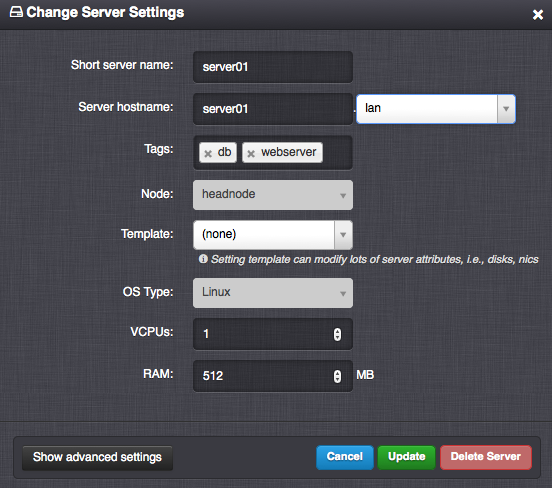
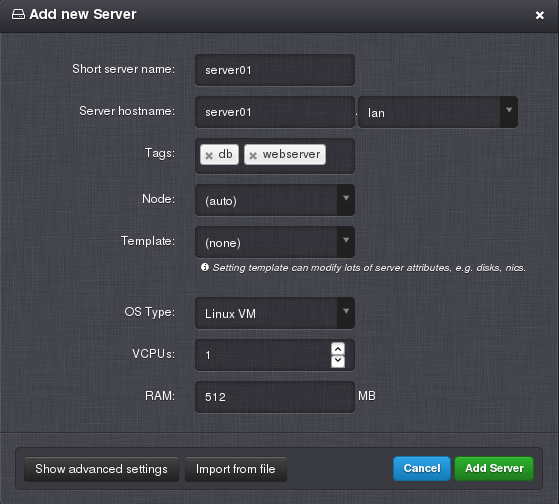
Added VM to ostypes to indicate KVM virtual machines
* Added VM to ostypes to indicate KVM virtual machines - erigones/esdc-ce#1
* Updated possible values of ostype_text

Closes erigones/esdc-ce#1

diff --git a/user-guide/monitoring/vm_monitoring.rst b/user-guide/monitoring/vm_monitoring.rst
@@ -32,8 +32,8 @@ Dynamic Assignment of Monitoring Templates and Host Groups
 
 * **MON_ZABBIX_HOSTGROUPS_VM** - List of other existing Zabbix host groups, which will be used for all monitored servers in a virtual data center. Available placeholders are:
 
-    * ``{ostype}`` - ID type of the operating system (1 - *Linux*, 2 - *SunOS*, 3 - *BSD*, 4 - *Windows*, 5 - *SunOS Zone*).
-    * ``{ostype_text}`` - The type of the operating system with lowercase letters and spaces replaced with underscores (*linux*, *sunos*, *bsd*, *windows*, *sunos_zone*).
+    * ``{ostype}`` - ID type of the operating system (1 - *Linux VM*, 2 - *SunOS VM*, 3 - *BSD VM*, 4 - *Windows VM*, 5 - *SunOS Zone*).
+    * ``{ostype_text}`` - The type of the operating system with lowercase letters and spaces replaced with underscores (*linux_vm*, *sunos_vm*, *bsd_vm*, *windows_vm*, *sunos_zone*).
     * ``{disk_image}`` - The name of the disk image or an empty string.
     * ``{disk_image_abbr}`` - The name of the disk image, which is automatically changed in a way that version is removed (everything after the first comma, including comma) or an empty string.
     * ``{dc_name}`` - The name of a virtual data center to which virtual server belongs.
@@ -42,8 +42,8 @@ Dynamic Assignment of Monitoring Templates and Host Groups
 
 * **MON_ZABBIX_TEMPLATES_VM** - List of existing Zabbix templates, which will be used for all monitored servers in a virtual data center. Available placeholders are:
 
-    * ``{ostype}`` - ID type of the operating system (1 - *Linux*, 2 - *SunOS*, 3 - *BSD*, 4 - *Windows*, 5 - *SunOS Zone*).
-    * ``{ostype_text}`` - The type of the operating system with lowercase letters and spaces replaced with underscores (*linux*, *sunos*, *bsd*, *windows*, *sunos_zone*).
+    * ``{ostype}`` - ID type of the operating system (1 - *Linux VM*, 2 - *SunOS VM*, 3 - *BSD VM*, 4 - *Windows VM*, 5 - *SunOS Zone*).
+    * ``{ostype_text}`` - The type of the operating system with lowercase letters and spaces replaced with underscores (*linux_vm*, *sunos_vm*, *bsd_vm*, *windows_vm*, *sunos_zone*).
     * ``{disk_image}`` - The name of the disk image or an empty string.
     * ``{disk_image_abbr}`` - The name of the disk image, which is automatically changed in a way that version is removed (everything after first comma, including comma) or an empty string.
     * ``{dc_name}`` - The name of a virtual data center to which virtual server belongs.

diff --git a/user-guide/gui/datacenters/settings.rst b/user-guide/gui/datacenters/settings.rst
@@ -120,7 +120,7 @@ Virtual Server Settings
 .. image:: img/settings_server-2.png
 
 * **VMS_ZONE_ENABLED** - Whether to enable support for SunOS zones in this virtual data center.
-* **VMS_VM_OSTYPE_DEFAULT** - Default operating system type. One of: *Linux*, *Windows*, *BSD*, *SunOS*, *SunOS Zone*.
+* **VMS_VM_OSTYPE_DEFAULT** - Default operating system type. One of: *Linux VM*, *Windows VM*, *BSD VM*, *SunOS VM*, *SunOS Zone*.
 * **VMS_VM_MONITORED_DEFAULT** - Controls whether server synchronization with the monitoring system is enabled by default.
 * **VMS_VM_CPU_SHARES_DEFAULT** - Default value of the server's CPU shares, relative to other servers. A higher value indicates a higher priority for allocation of CPU time. The default value for all virtual servers is 100.
 * **VMS_VM_ZFS_IO_PRIORITY_DEFAULT** - Default value of the server's IO throttling priority, relative to other servers. A higher value indicates a higher priority for allocation of IO resources. The default value for all virtual servers is 100.

diff --git a/user-guide/gui/servers/details.rst b/user-guide/gui/servers/details.rst
@@ -28,10 +28,10 @@ Virtual Server Parameters
 * **Template** - Template. 
 * **OS Type** - Operating system type. One of:
 
-    * *Linux*
-    * *Windows*
-    * *BSD*
-    * *SunOS*
+    * *Linux VM*
+    * *Windows VM*
+    * *BSD VM*
+    * *SunOS VM*
     * *SunOS Zone*
 * **vCPUs** - Number of virtual CPUs assigned to the virtual server.
 * **RAM** - The amount of RAM (MB) assigned to the virtual server.

diff --git a/user-guide/gui/datacenters/images.rst b/user-guide/gui/datacenters/images.rst
@@ -38,10 +38,10 @@ Image Parameters
 * **Size** - Minimal virtual disk size required by a disk image (read-only).
 * **OS Type** - Operating system type (read-only). One of:
 
-    * *Linux*
-    * *Windows*
-    * *BSD*
-    * *SunOS*
+    * *Linux VM*
+    * *Windows VM*
+    * *BSD VM*
+    * *SunOS VM*
     * *SunOS Zone*
 * **Status** - Current state of a disk image (read-only). One of:
 

diff --git a/user-guide/gui/nodes/images.rst b/user-guide/gui/nodes/images.rst
@@ -26,10 +26,10 @@ Image Parameters
 * **Size** - Minimal virtual disk size required by a disk image (read-only).
 * **OS Type** - Operating system type (read-only). One of:
 
-    * *Linux*
-    * *Windows*
-    * *BSD*
-    * *SunOS*
+    * *Linux VM*
+    * *Windows VM*
+    * *BSD VM*
+    * *SunOS VM*
     * *SunOS Zone*
 * **Status** - Current state of a disk image (read-only). One of:
 

diff --git a/user-guide/gui/datacenters/templates.rst b/user-guide/gui/datacenters/templates.rst
@@ -33,10 +33,10 @@ Template Parameters
 * **DC-bound?** - Whether a server template is bound to a specific virtual data center.
 * **OS Type** - Operating system type. One of:
 
-    * *Linux*
-    * *Windows*
-    * *BSD*
-    * *SunOS*
+    * *Linux VM*
+    * *Windows VM*
+    * *BSD VM*
+    * *SunOS VM*
     * *SunOS Zone*
 * **Description**
 

diff --git a/user-guide/gui/datacenters/iso_images.rst b/user-guide/gui/datacenters/iso_images.rst
@@ -33,10 +33,10 @@ ISO Image Parameters
 * **OS Type** - Operating system type. One of:
 
     * *(none)* - ISO image can be used by any KVM virtual server.
-    * *Linux*
-    * *Windows*
-    * *BSD*
-    * *SunOS*
+    * *Linux VM*
+    * *Windows VM*
+    * *BSD VM*
+    * *SunOS VM*
 * **Description**
 
 
